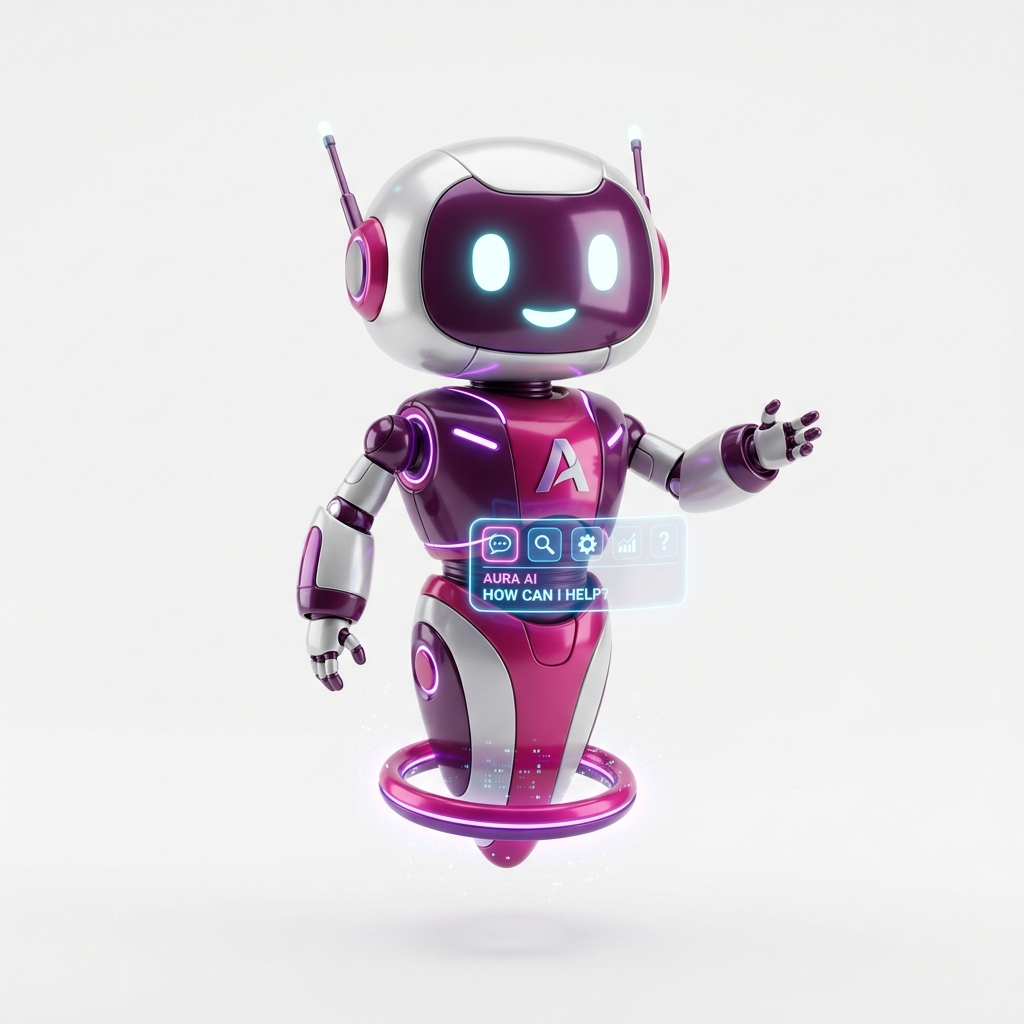
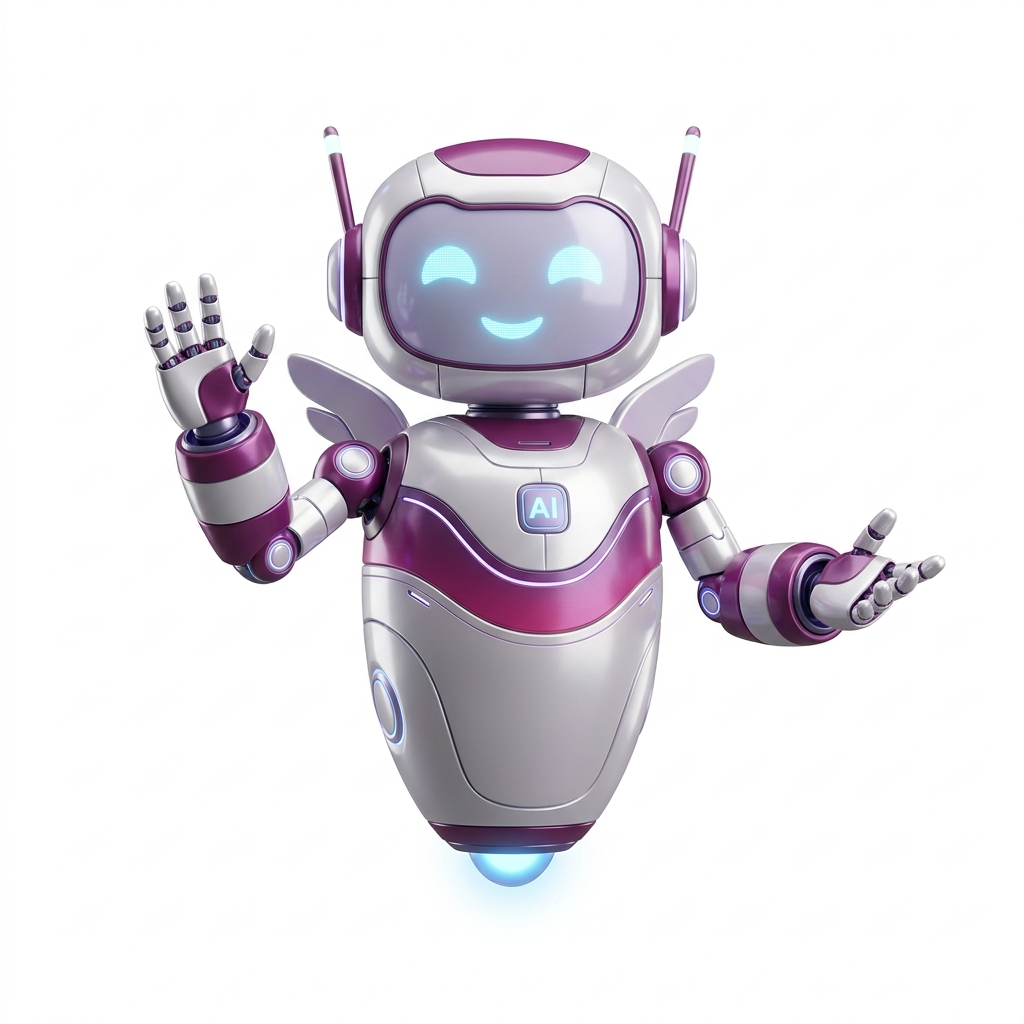
Design: Fixed mascot background blending with mix-blend-multiply

Changed region(s): [[0.125, 0.125, 0.9375, 0.9688]]

diff --git a/src/app/page.tsx b/src/app/page.tsx
@@ -103,7 +103,7 @@ export default function LandingPage() {
               <img 
                 src="/images/mascot.png" 
                 alt="AI Chatbot Mascot" 
-                className="w-40 h-40 md:w-56 md:h-56 mx-auto drop-shadow-[0_20px_50px_rgba(214,51,132,0.3)]"
+                className="w-40 h-40 md:w-56 md:h-56 mx-auto drop-shadow-[0_20px_50px_rgba(214,51,132,0.2)] mix-blend-multiply"
               />
             </motion.div>
             {/* Mascot Shadow Effect */}